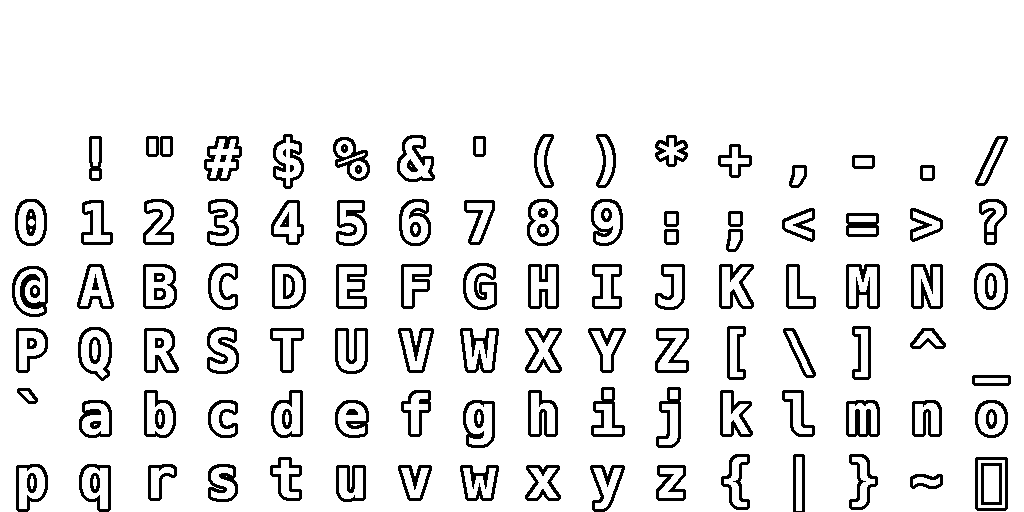
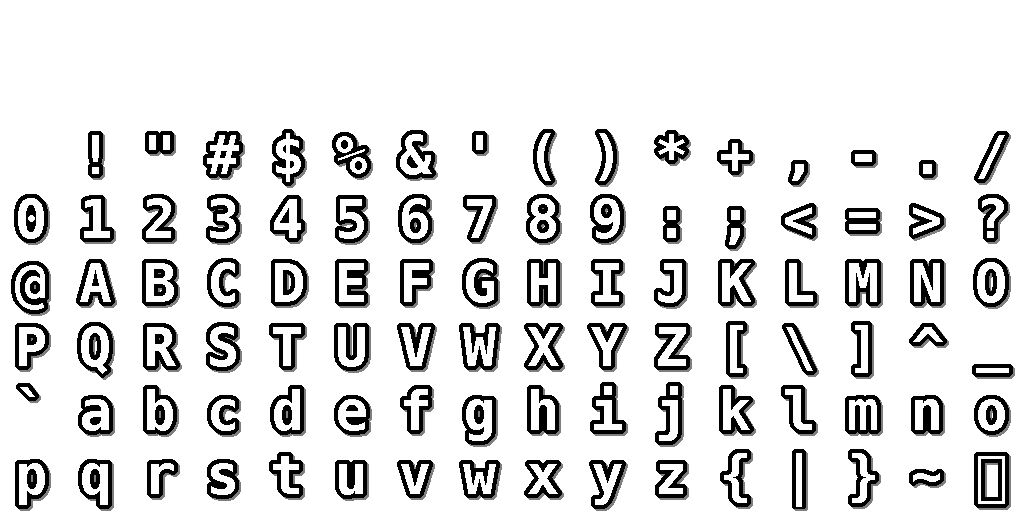
Text rendering fixed

Changed region(s): [[0.0, 0.25, 1.0, 1.0], [0.0625, 0.3125, 0.125, 0.3438]]

diff --git a/js/core/graphics.js b/js/core/graphics.js
@@ -420,11 +420,15 @@ graph.draw_scaled_bitmap_region = function(bmp, sx,sy,sw,sh,dx,dy,dw,dh, flip) {
  * @param yoff Y offset
  * @param center Center the text or not
  */
-graph.draw_text = function(bmp, text, dx, dy, xoff, yoff, center) {
+graph.draw_text = function(bmp, text, dx, dy, xoff, yoff, center, scale) {
+
+    if(bmp == null) return;
+    
+    scale = scale || 1.0;
 
     center = center == null ? false : center;
 
-    var cw = bmp.width / 16;
+    var cw = (bmp.width) / 16;
     var ch = cw;
     var len = text.length;
     var x = dx;
@@ -442,16 +446,16 @@ graph.draw_text = function(bmp, text, dx, dy, xoff, yoff, center) {
         if(text[i] == '\n') {
 
             x = dx;
-            y += yoff + ch;
+            y += (yoff + ch) * scale;
             continue;
         }
 
         sx = c % 16;
         sy = (c / 16) | 0;
 
-        this.draw_bitmap_region(bmp,sx*cw,sy*ch,cw,ch,x,y, FLIP_NONE);
+        this.draw_scaled_bitmap_region(bmp,sx*cw,sy*ch,cw,ch,x,y, cw* scale, ch* scale, FLIP_NONE);
 
-        x += cw + xoff;
+        x += (cw + xoff)* scale;
     }
 }
 

diff --git a/js/loading.js b/js/loading.js
@@ -9,10 +9,6 @@ var loading = {};
 loading.draw = function() {
 
     let bmp = assets.bitmaps.font;
-    if(typeof(bmp) != typeof(Bitmap) ) {
-
-        return;
-    }
 
     // Set transformation
     tr.fit_view_height(720.0);
@@ -24,6 +20,8 @@ loading.draw = function() {
     let x = tr.viewport.w / 2;
     let y = tr.viewport.h / 2 - 32;
 
-    graph.draw_text(bmp, "Loading...", x, y, 16, 0, true);
+    graph.set_color(1,1,1,1);
+    graph.draw_text(bmp, "Loading " + String(assets.get_percentage()), x, y, -16, 0, true);
+
 }
 core.set_loading_func(loading.draw);

diff --git a/js/game/status.js b/js/game/status.js
@@ -30,8 +30,8 @@ _status.update = function(tm) {
 }
 
 
-// Draw status
-_status.draw = function() {
+// Draw health
+_status.draw_health = function() {
 
     const BAR_SCALE = 1.5;
     const ALPHA = 0.75;
@@ -66,6 +66,17 @@ _status.draw = function() {
 
 
     graph.set_color(1,1,1, 1);
+}
+
+
+// Draw status
+_status.draw = function() {
+
+    // Draw health
+    _status.draw_health();
+
+    // Draw time
+    graph.draw_text(assets.bitmaps.font, "Sample Text!",8,8,-24,0, false, 0.5);
 }
 
 

diff --git a/js/core/assets.js b/js/core/assets.js
@@ -60,3 +60,14 @@ assets.has_loaded = function() {
 
     return assets.loaded >= assets.total;
 }
+
+
+/**
+ * Get how many % of data has been loaded
+ * @return Percentage
+ */
+assets.get_percentage = function() {
+
+    if(assets.total == 0) return 0.0;
+    return Math.round(assets.loaded / assets.total);
+}
